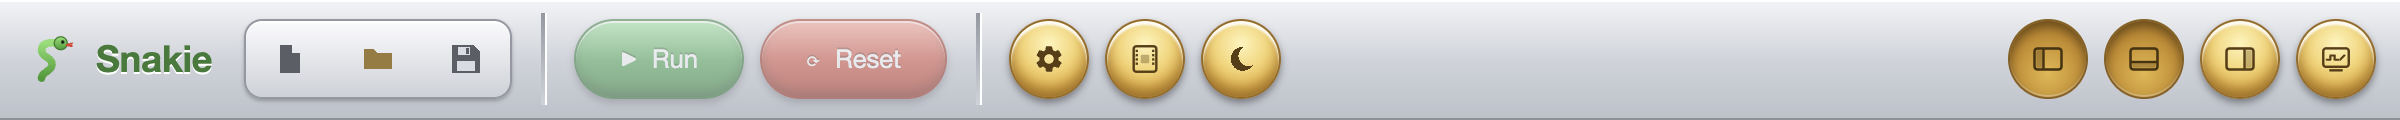
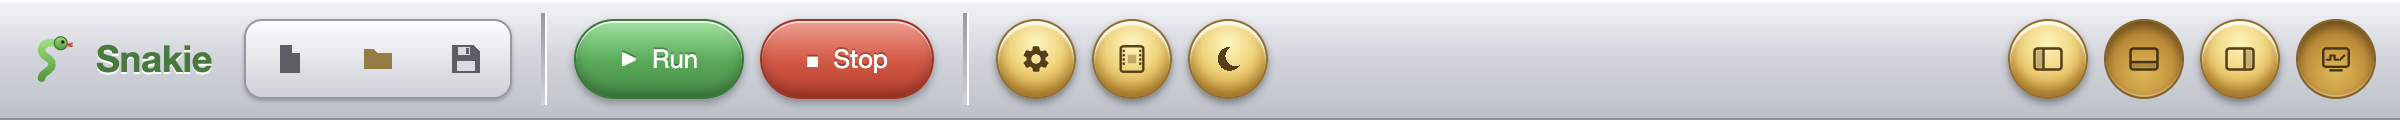
docs: capture board-connected screenshots (#189)
Added a hardware capture harness (scripts/capture-screenshots-hw.mjs) that connects the launched app to a real board and captures the connection header/status, REPL banner, run output, device files, the instrument dock + Add palette, and the Flash dialog — 33 of 73 screenshots are now real figures. Remaining shots need specific peripherals, a wired project, or update/AI states (see todo.md).

diff --git a/docs/tutorials/getting-started.md b/docs/tutorials/getting-started.md
@@ -90,12 +90,12 @@ The button changes to **Connecting…** and then to **Disconnect** once you are
 linked. At the same time, the **status bar** at the very bottom-left of the
 window switches from *Disconnected* to **Connected · `<your port>`**.
 
-:::{admonition} Screenshot needed — `getting-started-connection-control`
-:class: screenshot
-What to capture: The Shell panel header with the serial-port dropdown open
-showing a connected board, the ⟳ refresh button, and the Connect/Disconnect
-button.
-:::
+```{figure} /_static/screenshots/getting-started-connection-control.png
+:alt: The Shell panel header with the serial-port dropdown open showing a connected board, the ⟳ refresh button, and the Co…
+:width: 100%
+
+The Shell panel header with the serial-port dropdown open showing a connected board, the ⟳ refresh button, and the Connect/Disconnect button.
+```
 
 ## Step 4 — Confirm the REPL banner
 
@@ -112,11 +112,12 @@ Type "help()" for more information.
 
 Seeing the banner and the `>>>` prompt means Snakie is talking to your board.
 
-:::{admonition} Screenshot needed — `getting-started-repl-banner`
-:class: screenshot
-What to capture: The Shell Console showing the MicroPython boot banner and the
-`>>>` REPL prompt just after connecting.
-:::
+```{figure} /_static/screenshots/getting-started-repl-banner.png
+:alt: The Shell Console showing the MicroPython boot banner and the `>>>` REPL prompt just after connecting.
+:width: 100%
+
+The Shell Console showing the MicroPython boot banner and the `>>>` REPL prompt just after connecting.
+```
 
 ```{tip}
 The Console is a full interactive REPL — you can type Python at the `>>>` prompt
@@ -168,11 +169,12 @@ output streams into the Shell **Console**. Within a second your board's onboard
 LED should start blinking — on for a second, off for a second. **That is your
 first MicroPython program running from Snakie.** 🎉
 
-:::{admonition} Screenshot needed — `getting-started-run-blink`
-:class: screenshot
-What to capture: The editor with `blink.py` open and the toolbar's green Run
-button, with the Console showing the program running.
-:::
+```{figure} /_static/screenshots/getting-started-run-blink.png
+:alt: The editor with `blink.py` open and the toolbar's green Run button, with the Console showing the program running.
+:width: 100%
+
+The editor with `blink.py` open and the toolbar's green Run button, with the Console showing the program running.
+```
 
 ## Step 7 — Stop it
 

diff --git a/docs/todo.md b/docs/todo.md
@@ -1,8 +1,8 @@
 # Screenshots to capture
 
-51 screenshot placeholders remain across 26 pages (22 are already captured into `_static/screenshots/` and wired as figures).
+40 screenshot placeholders remain across 24 pages (33 are captured into `_static/screenshots/` and wired as figures).
 
-Each remaining item is a `:::{admonition} Screenshot needed` block — most need a connected board (connect/REPL/live values/instruments/flashing) or a wired project. Capture into `_static/screenshots/<slug>.png` and replace the admonition with a `{figure}` (see `scripts/capture-screenshots.mjs` for the no-hardware capture harness).
+The remaining ones need specific peripherals (gamepad, ultrasonic, IMU, Wi-Fi/Bluetooth/I²C devices), a wired project (breadboard/part-editor), an available app/firmware update, AI configured, or a live plotter trace. The no-hardware and board-connected harnesses are in `scripts/`.
 
 ## `explanation/architecture.md`
 
@@ -18,13 +18,8 @@ Each remaining item is a `:::{admonition} Screenshot needed` block — most need
 - [ ] **`ai-assist-chat-panel`** — The Chat panel open with a short conversation, an assistant reply containing a code block with its Apply and Copy buttons, the two context toggles above the composer, and the Provider/Model footer dropdowns.
 - [ ] **`ai-assist-ghost-text`** — The Monaco editor mid-edit showing a dimmed ghost-text inline completion suggested after the cursor in a Python file.
 
-## `how-to/connect-device.md`
-
-- [ ] **`connect-device-status-bar`** — The bottom status bar showing a green "Connected · /dev/cu.usbmodem1101" indicator on the left.
-
 ## `how-to/device-instruments.md`
 
-- [ ] **`device-instruments-dock-header`** — The instrument dock with the INPUTS / OUTPUTS toggle rows, the ＋ Add palette open showing the searchable catalogue, and one in-use instrument carrying its accent dot.
 - [ ] **`device-instruments-gamepad`** — The Gamepad panel showing the virtual stick, the mapped-output bars, and the HOLD TO DRIVE + E-STOP safety buttons.
 - [ ] **`device-instruments-range-radar`** — The Range instrument in swept/RADAR mode showing the polar sweep with fading blips, plus the TRIG/ECHO pin selectors and the max-range / units / alert controls.
 
@@ -34,7 +29,6 @@ Each remaining item is a `:::{admonition} Screenshot needed` block — most need
 
 ## `how-to/flash-firmware.md`
 
-- [ ] **`flash-firmware-dialog`** — The Flash MicroPython firmware modal open with the "Download from MicroPython.org" source selected, showing the Family → Model → Variant → Version dropdowns.
 - [ ] **`flash-firmware-microbit-maintenance`** — The flasher with a micro:bit selected and the orange "maintenance mode" warning banner explaining to reconnect without holding reset.
 - [ ] **`flash-firmware-update-prompt`** — The status-bar popup reading "MicroPython vX.Y.Z is available (device runs v…)" with the Flash and dismiss (✕) buttons, anchored above the Flash firmware button.
 
@@ -48,7 +42,6 @@ Each remaining item is a `:::{admonition} Screenshot needed` block — most need
 
 ## `how-to/manage-files.md`
 
-- [ ] **`manage-files-panel-overview`** — The Files sidebar with the Local files tree (top) populated, the transfer bridge in the middle, and the Device files tree (bottom) showing a connected board's root.
 - [ ] **`manage-files-device-context-menu`** — Right-click context menu open on a file in the Device files tree, showing Open, Download to computer, Rename, and Delete.
 
 ## `how-to/plugins.md`
@@ -68,8 +61,6 @@ Each remaining item is a `:::{admonition} Screenshot needed` block — most need
 
 ## `how-to/use-instruments.md`
 
-- [ ] **`use-instruments-dock-open`** — the main window with the Instrument Dock open on the right, showing the mini board view, the INPUTS/OUTPUTS toggle rows with the `+ Add` button, and a docked Oscilloscope and Multimeter in the stack.
-- [ ] **`use-instruments-add-palette`** — the `+ Add instrument` palette open over the dock, with the search box at the top and the INPUTS/OUTPUTS grouped list of instruments (showing the "shown" and "in use" badges).
 - [ ] **`use-instruments-live-warning`** — the status bar at the bottom of the window showing the "Live polling is interrupting the board" warning with its Stop button, alongside the connected-device indicator.
 
 ## `how-to/validate-yaml-json.md`
@@ -112,15 +103,7 @@ Each remaining item is a `:::{admonition} Screenshot needed` block — most need
 
 ## `tutorials/first-program.md`
 
-- [ ] **`first-program-run-button`** — The top toolbar with the green Run button and the red Stop/Reset button, with a device shown as connected.
-- [ ] **`first-program-shell-output`** — The bottom Shell panel on its Console view showing several "blink N" lines printed by the running program.
 - [ ] **`first-program-plotter`** — The instrument dock Plotter showing two smooth scrolling sine/cosine traces with the "series 1 / series 2" legend and the samples/Hz readout.
-
-## `tutorials/getting-started.md`
-
-- [ ] **`getting-started-connection-control`** — The Shell panel header with the serial-port dropdown open showing a connected board, the ⟳ refresh button, and the Connect/Disconnect button.
-- [ ] **`getting-started-repl-banner`** — The Shell Console showing the MicroPython boot banner and the `>>>` REPL prompt just after connecting.
-- [ ] **`getting-started-run-blink`** — The editor with `blink.py` open and the toolbar's green Run button, with the Console showing the program running.
 
 ## `tutorials/live-instruments.md`
 

diff --git a/docs/how-to/use-instruments.md b/docs/how-to/use-instruments.md
@@ -28,10 +28,12 @@ When open, the dock shows, top to bottom:
   **INPUTS** and **OUTPUTS** — plus a **`+ Add`** button,
 - the stack of currently-shown instrument windows.
 
-:::{admonition} Screenshot needed — `use-instruments-dock-open`
-:class: screenshot
-What to capture: the main window with the Instrument Dock open on the right, showing the mini board view, the INPUTS/OUTPUTS toggle rows with the `+ Add` button, and a docked Oscilloscope and Multimeter in the stack.
-:::
+```{figure} /_static/screenshots/use-instruments-dock-open.png
+:alt: the main window with the Instrument Dock open on the right, showing the mini board view, the INPUTS/OUTPUTS toggle ro…
+:width: 100%
+
+the main window with the Instrument Dock open on the right, showing the mini board view, the INPUTS/OUTPUTS toggle rows with the `+ Add` button, and a docked Oscilloscope and Multimeter in the stack.
+```
 
 ## Show or hide an instrument
 
@@ -52,10 +54,12 @@ box to filter by name or description, then click an entry to show it and close
 the palette. Entries already on screen read as **shown**; ones your file uses
 read as **in use**.
 
-:::{admonition} Screenshot needed — `use-instruments-add-palette`
-:class: screenshot
-What to capture: the `+ Add instrument` palette open over the dock, with the search box at the top and the INPUTS/OUTPUTS grouped list of instruments (showing the "shown" and "in use" badges).
-:::
+```{figure} /_static/screenshots/use-instruments-add-palette.png
+:alt: the `+ Add instrument` palette open over the dock, with the search box at the top and the INPUTS/OUTPUTS grouped list…
+:width: 100%
+
+the `+ Add instrument` palette open over the dock, with the search box at the top and the INPUTS/OUTPUTS grouped list of instruments (showing the "shown" and "in use" badges).
+```
 
 ## Open a scope or meter from the Board View
 

diff --git a/docs/tutorials/first-program.md b/docs/tutorials/first-program.md
@@ -109,10 +109,12 @@ a file is **open**. Hover the button to see why it is greyed out ("Connect to a
 device to run" or "Open a file to run").
 ```
 
-:::{admonition} Screenshot needed — `first-program-run-button`
-:class: screenshot
-What to capture: The top toolbar with the green Run button and the red Stop/Reset button, with a device shown as connected.
-:::
+```{figure} /_static/screenshots/first-program-run-button.png
+:alt: The top toolbar with the green Run button and the red Stop/Reset button, with a device shown as connected.
+:width: 100%
+
+The top toolbar with the green Run button and the red Stop/Reset button, with a device shown as connected.
+```
 
 ## 5. Read the output in the Shell
 
@@ -136,10 +138,12 @@ A few things to know about the Shell:
 - If you cannot see the Shell, toggle it with the bottom-panel knob in the
   toolbar.
 
-:::{admonition} Screenshot needed — `first-program-shell-output`
-:class: screenshot
-What to capture: The bottom Shell panel on its Console view showing several "blink N" lines printed by the running program.
-:::
+```{figure} /_static/screenshots/first-program-shell-output.png
+:alt: The bottom Shell panel on its Console view showing several "blink N" lines printed by the running program.
+:width: 100%
+
+The bottom Shell panel on its Console view showing several "blink N" lines printed by the running program.
+```
 
 ## 6. Stop or reset the board
 

diff --git a/docs/how-to/connect-device.md b/docs/how-to/connect-device.md
@@ -70,10 +70,12 @@ The status updates from the device layer itself, so every part of the UI (the
 Shell control and the status bar) stays in sync — connecting from one place
 updates them all.
 
-:::{admonition} Screenshot needed — `connect-device-status-bar`
-:class: screenshot
-What to capture: The bottom status bar showing a green "Connected · /dev/cu.usbmodem1101" indicator on the left.
-:::
+```{figure} /_static/screenshots/connect-device-status-bar.png
+:alt: The bottom status bar showing a green "Connected · /dev/cu.usbmodem1101" indicator on the left.
+:width: 100%
+
+The bottom status bar showing a green "Connected · /dev/cu.usbmodem1101" indicator on the left.
+```
 
 Once connected you can use the [REPL and Plotter](repl-and-plotter),
 [Run & stop](run-and-stop) your program, and [manage files](manage-files) on the

diff --git a/docs/how-to/device-instruments.md b/docs/how-to/device-instruments.md
@@ -32,10 +32,12 @@ imports a driver or uses a matching pin (e.g. an `MPU6050` import lights the IMU
 a `PWM` pin lights the Oscilloscope), that instrument gets an accent **in-use**
 dot and starts visible. Everything else is one click away in the palette.
 
-:::{admonition} Screenshot needed — `device-instruments-dock-header`
-:class: screenshot
-What to capture: The instrument dock with the INPUTS / OUTPUTS toggle rows, the ＋ Add palette open showing the searchable catalogue, and one in-use instrument carrying its accent dot.
-:::
+```{figure} /_static/screenshots/device-instruments-dock-header.png
+:alt: The instrument dock with the INPUTS / OUTPUTS toggle rows, the ＋ Add palette open showing the searchable catalogue, a…
+:width: 100%
+
+The instrument dock with the INPUTS / OUTPUTS toggle rows, the ＋ Add palette open showing the searchable catalogue, and one in-use instrument carrying its accent dot.
+```
 
 ### Dock, float, or hide a panel
 

diff --git a/docs/how-to/flash-firmware.md b/docs/how-to/flash-firmware.md
@@ -18,10 +18,12 @@ connection and choosing a port for everyday coding, see
 Click **⚡ Flash firmware** at the far-right end of the status bar (bottom of the
 window). The **Flash MicroPython firmware** dialog opens.
 
-:::{admonition} Screenshot needed — `flash-firmware-dialog`
-:class: screenshot
-What to capture: The Flash MicroPython firmware modal open with the "Download from MicroPython.org" source selected, showing the Family → Model → Variant → Version dropdowns.
-:::
+```{figure} /_static/screenshots/flash-firmware-dialog.png
+:alt: The Flash MicroPython firmware modal open with the "Download from MicroPython.org" source selected, showing the Famil…
+:width: 100%
+
+The Flash MicroPython firmware modal open with the "Download from MicroPython.org" source selected, showing the Family → Model → Variant → Version dropdowns.
+```
 
 The dialog drives everything from two choices:
 

diff --git a/docs/how-to/manage-files.md b/docs/how-to/manage-files.md
@@ -9,10 +9,12 @@ This page assumes you can already [connect a device](connect-device). Drag the
 splitter between the two panes to give either tree more room; the split is
 remembered across sessions.
 
-:::{admonition} Screenshot needed — `manage-files-panel-overview`
-:class: screenshot
-What to capture: The Files sidebar with the Local files tree (top) populated, the transfer bridge in the middle, and the Device files tree (bottom) showing a connected board's root.
-:::
+```{figure} /_static/screenshots/manage-files-panel-overview.png
+:alt: The Files sidebar with the Local files tree (top) populated, the transfer bridge in the middle, and the Device files …
+:width: 100%
+
+The Files sidebar with the Local files tree (top) populated, the transfer bridge in the middle, and the Device files tree (bottom) showing a connected board's root.
+```
 
 ## Open a working folder
 